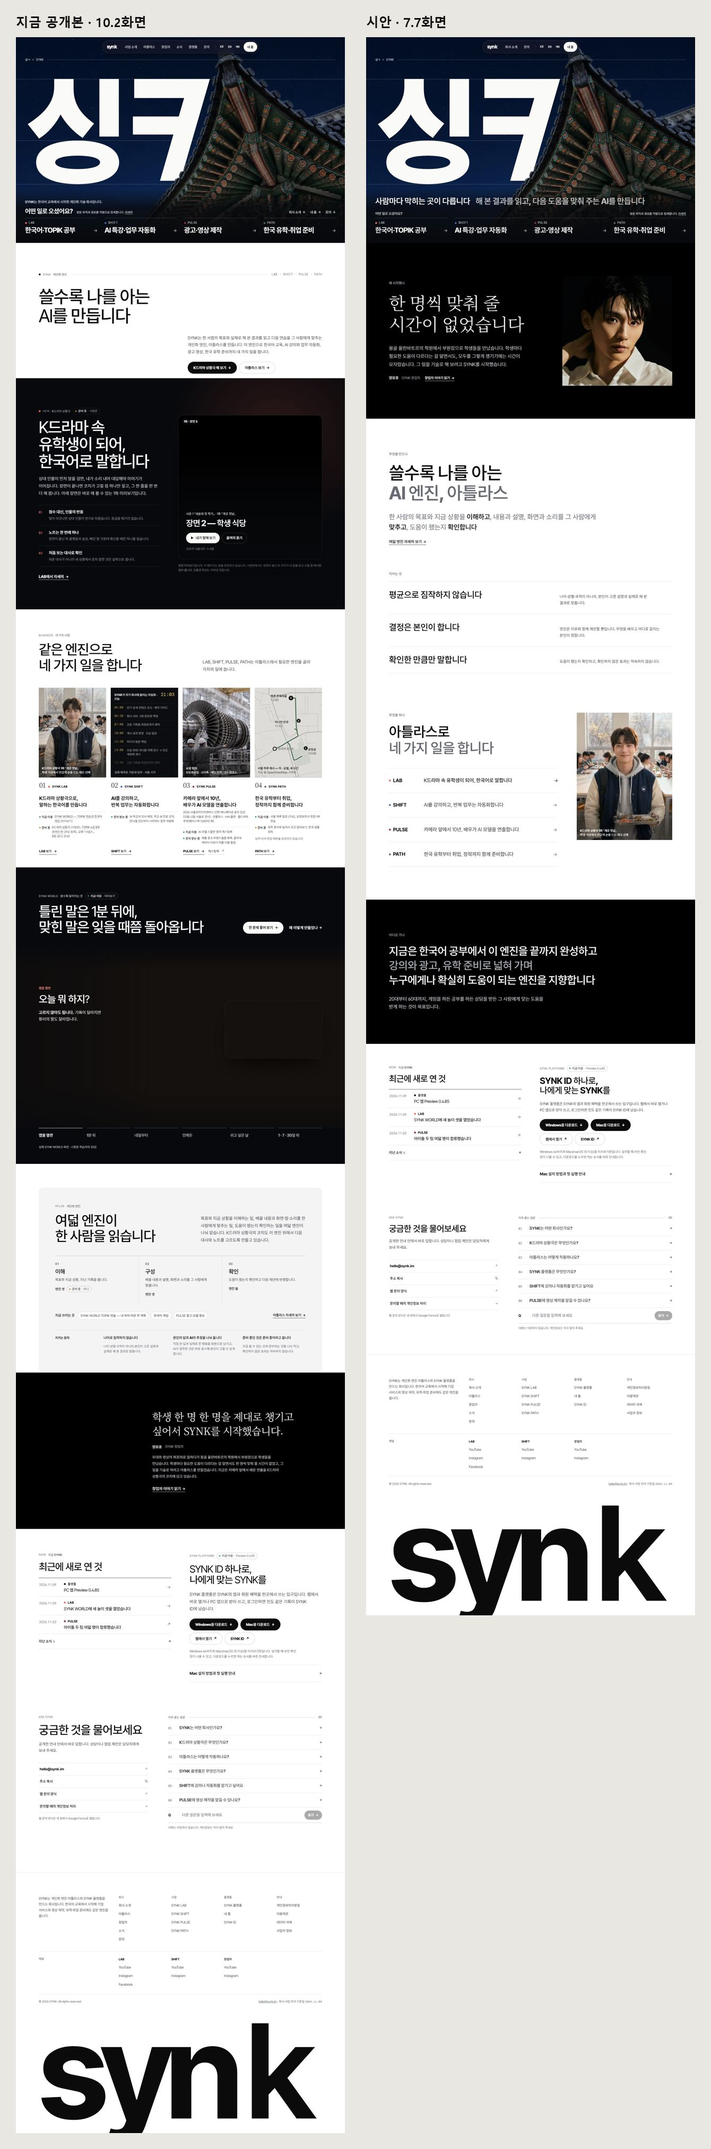
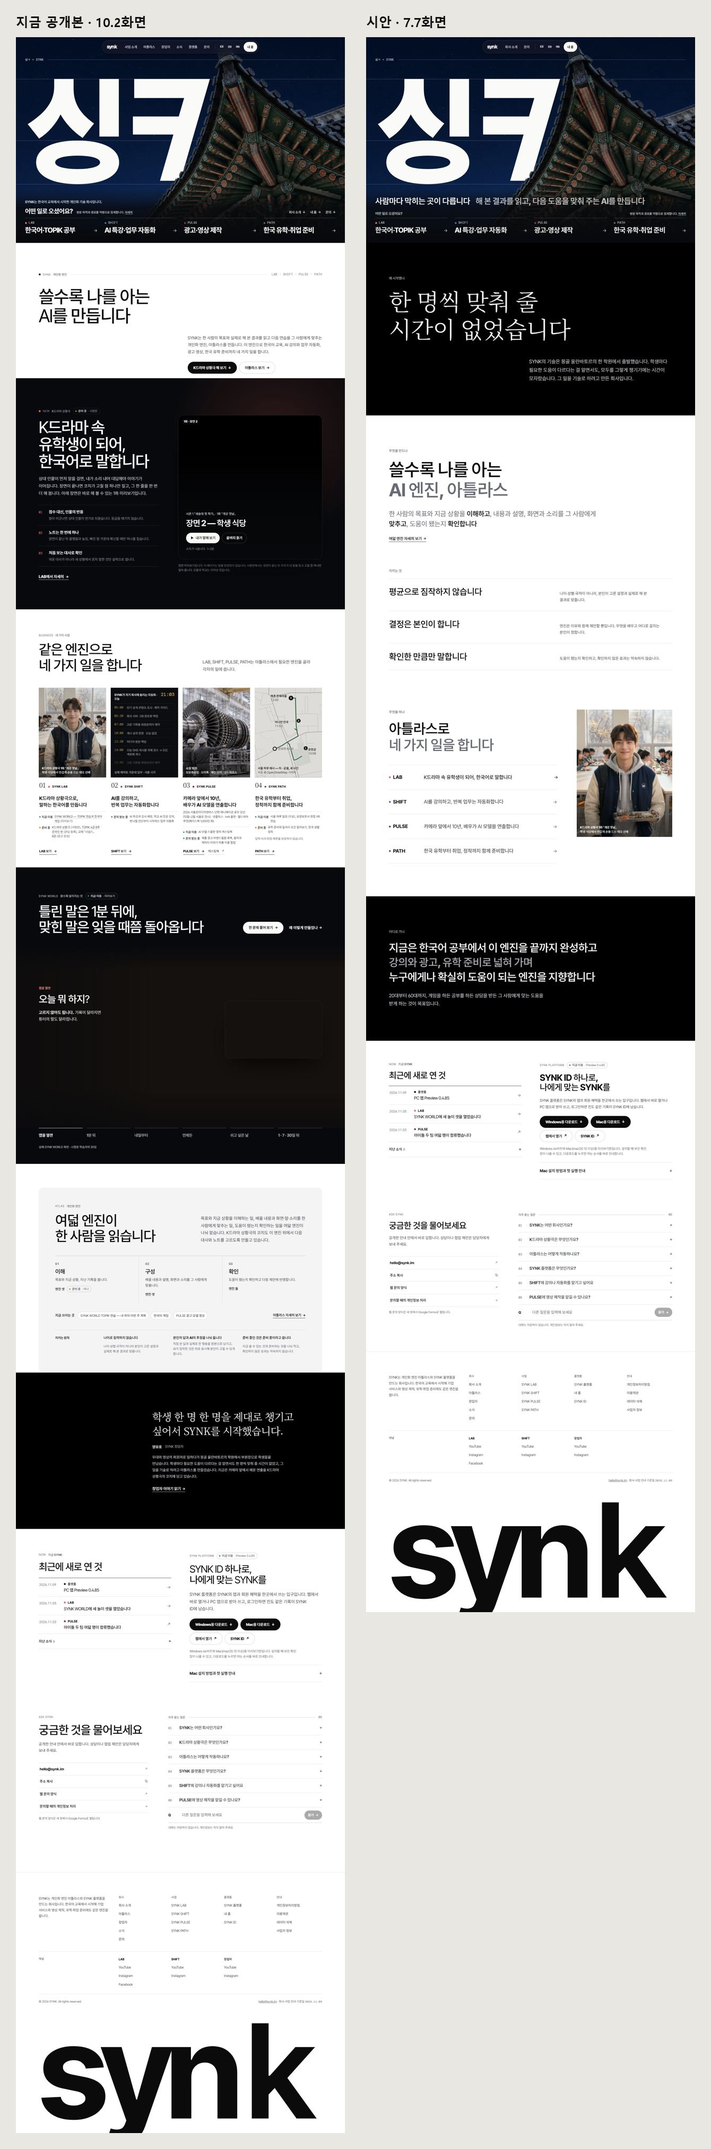
docs(synk.im 홈 시안 · 11-09 유호님): 홈에서 창업자 사진 · 이름을 뺀다 — 왜 시작했는지는 회사 이야기로, 자리별 실측 · 점검표 한 줄
관련 시험 건너뜀: 문서와 시안만 바꿈. 관련 시험 114개 중 예약사본 2개만 묶음 실행에서 깨졌고 그 파일 단독 실행은 통과, 이 변경과 닿는 경로 없음

diff --git a/docs/디자인/synk.im_홈재구성_20261109/시안/home.html b/docs/디자인/synk.im_홈재구성_20261109/시안/home.html
@@ -32,7 +32,7 @@
 <nav class="bar-nav bar-brands" aria-label="사업"><a href="/lab/">LAB</a><a href="/shift/">SHIFT</a><a href="/pulse/">PULSE</a><a href="/path/">PATH</a></nav><span class="bar-sep" aria-hidden="true"></span>
 <div class="bar-nav bar-lang"><a href="/" hreflang="ko" lang="ko" aria-current="true">KR</a><a href="/en/" hreflang="en" lang="en">EN</a><a href="/mn/" hreflang="mn" lang="mn">MN</a></div><a class="bar-cta" href="/account/platform.html#home">내 홈</a>
 <button class="bar-toggle" type="button" aria-expanded="false" aria-controls="bar-panel" data-bar-toggle><span></span><b class="sr-only">메뉴</b></button></div>
-<div class="bar-panel" id="bar-panel" data-bar-panel><div class="panel-group"><span class="panel-label"><span class="ko">회사</span></span><a href="#top">회사 소개<span aria-hidden="true">→</span></a><a href="/atlas/" class="has-sub"><span class="panel-text">아틀라스<small>쓸수록 나에게 맞춰지는 AI 엔진</small></span><span aria-hidden="true">→</span></a><a href="/founder/">창업자<span aria-hidden="true">→</span></a><a href="#now">소식<span aria-hidden="true">→</span></a><a href="#platform" class="has-sub"><span class="panel-text">플랫폼<small>SYNK 앱 모음 · PC 앱 받기</small></span><span aria-hidden="true">→</span></a><a href="#contact">문의<span aria-hidden="true">→</span></a></div><div class="panel-group"><span class="panel-label"><span class="ko">사업</span></span><a href="/lab/" class="has-sub"><span class="panel-text">SYNK LAB<small>한국어·TOPIK 공부</small></span><span aria-hidden="true">→</span></a><a href="/shift/" class="has-sub"><span class="panel-text">SYNK SHIFT<small>AI 특강·업무 자동화</small></span><span aria-hidden="true">→</span></a><a href="/pulse/" class="has-sub"><span class="panel-text">SYNK PULSE<small>광고·영상 제작</small></span><span aria-hidden="true">→</span></a><a href="/path/" class="has-sub"><span class="panel-text">SYNK PATH<small>한국 유학·취업 준비</small></span><span aria-hidden="true">→</span></a></div><div class="panel-row"><a class="" href="/" hreflang="ko" lang="ko" aria-current="true">KR</a><a class="" href="/en/" hreflang="en" lang="en">EN</a><a class="" href="/mn/" hreflang="mn" lang="mn">MN</a></div><div class="panel-row"><a class="dark" href="/account/platform.html#home">내 홈</a></div></div></header>
+<div class="bar-panel" id="bar-panel" data-bar-panel><div class="panel-group"><span class="panel-label"><span class="ko">회사</span></span><a href="#top">회사 소개<span aria-hidden="true">→</span></a><a href="/atlas/" class="has-sub"><span class="panel-text">아틀라스<small>쓸수록 나에게 맞춰지는 AI 엔진</small></span><span aria-hidden="true">→</span></a><a href="#now">소식<span aria-hidden="true">→</span></a><a href="#platform" class="has-sub"><span class="panel-text">플랫폼<small>SYNK 앱 모음 · PC 앱 받기</small></span><span aria-hidden="true">→</span></a><a href="#contact">문의<span aria-hidden="true">→</span></a></div><div class="panel-group"><span class="panel-label"><span class="ko">사업</span></span><a href="/lab/" class="has-sub"><span class="panel-text">SYNK LAB<small>한국어·TOPIK 공부</small></span><span aria-hidden="true">→</span></a><a href="/shift/" class="has-sub"><span class="panel-text">SYNK SHIFT<small>AI 특강·업무 자동화</small></span><span aria-hidden="true">→</span></a><a href="/pulse/" class="has-sub"><span class="panel-text">SYNK PULSE<small>광고·영상 제작</small></span><span aria-hidden="true">→</span></a><a href="/path/" class="has-sub"><span class="panel-text">SYNK PATH<small>한국 유학·취업 준비</small></span><span aria-hidden="true">→</span></a></div><div class="panel-row"><a class="" href="/" hreflang="ko" lang="ko" aria-current="true">KR</a><a class="" href="/en/" hreflang="en" lang="en">EN</a><a class="" href="/mn/" hreflang="mn" lang="mn">MN</a></div><div class="panel-row"><a class="dark" href="/account/platform.html#home">내 홈</a></div></div></header>
 <main id="main">
 <section class="gate" id="gate" aria-label="SYNK 입구">
 <div class="gate-sky" aria-hidden="true"></div>
@@ -45,12 +45,10 @@
 <p class="visit-q" id="visit-q">어떤 일로 오셨어요?</p>
 <ul class="visit-doors"><li><a class="visit-door" href="/lab/"><small><i class="dot dot-lab" aria-hidden="true"></i>LAB</small><strong>한국어·TOPIK 공부</strong><b class="arr" aria-hidden="true">→</b></a></li><li><a class="visit-door" href="/shift/"><small><i class="dot dot-shift" aria-hidden="true"></i>SHIFT</small><strong>AI 특강·업무 자동화</strong><b class="arr" aria-hidden="true">→</b></a></li><li><a class="visit-door" href="/pulse/"><small><i class="dot dot-pulse" aria-hidden="true"></i>PULSE</small><strong>광고·영상 제작</strong><b class="arr" aria-hidden="true">→</b></a></li><li><a class="visit-door" href="/path/"><small><i class="dot dot-path" aria-hidden="true"></i>PATH</small><strong>한국 유학·취업 준비</strong><b class="arr" aria-hidden="true">→</b></a></li></ul>
 <p class="visit-note">방문 목적과 경로를 익명으로 집계합니다. <a href="/privacy/#visitor-stats">자세히</a></p></nav></div>
-</section><section class="v13-why" id="top" aria-labelledby="why-title"><span id="hero-introduction" class="sr-only" aria-hidden="true"></span><span id="founder" class="sr-only" aria-hidden="true"></span><div class="wrap v13-why-grid">
-<div><p class="v13-label reveal">왜 시작했나</p>
+</section><section class="v13-why" id="top" aria-labelledby="why-title"><span id="hero-introduction" class="sr-only" aria-hidden="true"></span><span id="founder" class="sr-only" aria-hidden="true"></span><div class="wrap">
+<p class="v13-label reveal">왜 시작했나</p>
 <h2 class="v13-why-title reveal" id="why-title"><span>한 명씩 맞춰 줄</span> <span>시간이 없었습니다</span></h2>
-<p class="v13-why-story reveal">몽골 울란바토르의 학원에서 부원장으로 학생들을 만났습니다. 학생마다 필요한 도움이 다르다는 걸 알면서도, 모두를 그렇게 챙기기에는 시간이 모자랐습니다. 그 일을 기술로 해 보려고 SYNK를 시작했습니다.</p>
-<p class="v13-sign reveal"><strong>양유호</strong><span>SYNK 창업자</span><a class="link" href="/founder/">창업자 이야기 읽기<span class="arr" aria-hidden="true">→</span></a></p></div>
-<figure class="v13-why-photo reveal"><img src="/assets/v10/r/yuho-founder-20260919-w800.webp" alt="검정 배경 앞의 SYNK 창업자 양유호" width="800" height="800" loading="lazy" decoding="async"></figure>
+<p class="v13-why-story reveal">SYNK의 기술은 몽골 울란바토르의 한 학원에서 출발했습니다. 학생마다 필요한 도움이 다르다는 걸 알면서도, 모두를 그렇게 챙기기에는 시간이 모자랐습니다. 그 일을 기술로 하려고 만든 회사입니다.</p>
 </div></section>
 <section class="v13-what" id="atlas" aria-labelledby="what-title"><div class="wrap">
 <p class="v13-label reveal">무엇을 만드나</p>

diff --git a/docs/디자인/synk.im_홈재구성_20261109/시안/home-v13.css b/docs/디자인/synk.im_홈재구성_20261109/시안/home-v13.css
@@ -22,17 +22,11 @@
 .v13-lead{margin:clamp(22px,2.4vw,34px) 0 0;max-width:33em;font-size:clamp(18px,1.5vw,21px);line-height:1.65;font-weight:450;color:var(--ink-2);text-wrap:pretty}
 .v13-go{margin:clamp(20px,2vw,28px) 0 0}
 
-/* ---------- 왜 시작했나: 사람의 말이라 명조, 검정 ---------- */
+/* ---------- 왜 시작했나: 검정 판에 큰 명조 한 문장. 창업자 사진 · 이름은 넣지 않는다(11-09 유호님) ---------- */
 .v13-why{--ink:#f4f4f5;--ink-2:#c9cbd1;--ink-3:#a2a5ad;--line:rgba(255,255,255,.16);background:#000;color:var(--ink);padding-block:clamp(88px,10vw,148px)}
-.v13-why-grid{display:grid;grid-template-columns:minmax(0,7fr) minmax(0,5fr);gap:clamp(32px,6vw,96px);align-items:center}
-.v13-why-title{margin:0;font-family:'V13 Serif','Serif KR',serif;font-size:clamp(36px,5.2vw,76px);line-height:1.24;font-weight:300;letter-spacing:-.01em}
+.v13-why-title{margin:0;font-family:'V13 Serif','Serif KR',serif;font-size:clamp(40px,7vw,104px);line-height:1.2;font-weight:300;letter-spacing:-.012em}
 .v13-why-title span{display:block}
-.v13-why-story{margin:clamp(28px,3vw,44px) 0 0;max-width:30em;font-size:clamp(18px,1.45vw,21px);line-height:1.7;font-weight:400;color:var(--ink-2);text-wrap:pretty}
-.v13-sign{display:flex;flex-wrap:wrap;align-items:baseline;gap:6px 14px;margin:clamp(20px,2vw,28px) 0 0;font-size:15px;color:var(--ink-3)}
-.v13-sign strong{font-size:16px;font-weight:650;color:var(--ink)}
-.v13-sign .link{margin-left:6px;color:var(--ink);font-size:15px}
-.v13-why-photo{margin:0;aspect-ratio:1;overflow:hidden;background:#000}
-.v13-why-photo img{display:block;width:100%;height:100%;object-fit:cover}
+.v13-why-story{margin:clamp(36px,4.6vw,68px) 0 0 auto;max-width:29em;font-size:clamp(18px,1.5vw,22px);line-height:1.7;font-weight:400;color:var(--ink-2);text-wrap:pretty}
 
 /* ---------- 무엇을 만드나 + 지키는 것: 흰 바탕 ---------- */
 .v13-what{padding-block:clamp(88px,10vw,152px) clamp(64px,7vw,104px)}
@@ -81,7 +75,7 @@
 
 /* ---------- 휴대폰 ---------- */
 @media (max-width:900px){
-  .v13-why-grid{grid-template-columns:minmax(0,1fr);gap:36px}
+  .v13-why-story{margin-left:0}
   .v13-biz-grid{display:block}
   .v13-rows a{grid-template-columns:minmax(0,1fr) auto;gap:6px 16px;padding-block:16px;grid-template-areas:"name arr" "line arr"}
   .v13-name{grid-area:name}

diff --git a/docs/디자인/synk.im_홈재구성_20261109/시안/index.html b/docs/디자인/synk.im_홈재구성_20261109/시안/index.html
@@ -75,7 +75,7 @@ const LINES = [
   ["학생 한 명 한 명을 챙기려다, 쓸수록 나를 아는 AI를 만들게 됐습니다"],
   ["세상을 아는 AI는 많습니다","우리는 쓸수록 나를 아는 AI를 만듭니다"]
 ];
-const NUMS = [["컴퓨터 쪽 길이(화면 수)","10.2","7.7"],["휴대폰 쪽 길이(화면 수)","12.8","9.0"],["글자 수(컴퓨터)","4,661","2,191"],["창업 이유가 나오는 자리(컴퓨터)","6.5화면째","1화면째"],["위 메뉴 항목(스크롤 뒤)","14","10"]];
+const NUMS = [["컴퓨터 쪽 길이(화면 수)","10.2","7.7"],["휴대폰 쪽 길이(화면 수)","12.8","9.0"],["글자 수(컴퓨터)","4,661","2,191"],["창업 이유가 나오는 자리(컴퓨터)","6.5화면째","1화면째"],["위 메뉴 항목(스크롤 뒤)","14","10"],["홈의 창업자 사진","있음","없음"]];
 const fit = () => document.querySelectorAll('.frame iframe').forEach(f => { f.style.transform = `scale(${f.parentElement.clientWidth / +f.dataset.w})`; });
 addEventListener('resize', fit); fit();
 const box = document.getElementById('line-buttons');

diff --git a/docs/마케팅/제작양식/광고영상_슬롭점검표.md b/docs/마케팅/제작양식/광고영상_슬롭점검표.md
@@ -65,6 +65,7 @@
 | 46 | 화면 · 사진 속 글자 — 표지 · 간판 · 책 · 포스터 · 칠판 글을 화면 글꼴로 사진 위에 얹음(합성 티) | 11-09 WORLD 학교 시안 「이런 표지나 책에써져있는 텍스트들이 합성한 느낌이 너무 커. 이런 부분들이 슬롭느낌을 가장 크게 증폭시켜서 우리가 만든 다른 모든게 억울하게 평가절하받는 느낌이야 ㅠㅠ」 · 「새솔 문구도 아예 튀어나와있고말야」 · 「간격이라던지 디테일한 마감이 좀 부족한것같아」 — 펠트 UI 부품 규칙 「글자는 굽지 않는다」를 사진 속 물건까지 넓혀, 학생식당 표지 · 층별 안내 · 칠판 · 대본 · 포스터 · 문구점 간판을 모두 같은 화면 글꼴로 평평하게 얹었고, 간판 글자는 판 밖으로 나갔다. 맹검이 자리 안에 3~6점을 줬는데 「본구현 전에 따로」로 미뤄 보여 드렸다 | 사진 속 물건에 쓰인 글을 하나씩 잘라 본다 — UI와 같은 글꼴인가, 물건의 기울기 · 곡면을 따르나, 둘레와 같은 빛 · 그늘 · 재질 · 초점인가, 물건 밖으로 나가나(글자 네모가 물건 네모 안에 드는지 잰다). 화면 전체 맹검은 이 칸을 뭉뚱그리니 글자 둘레만 잘라 따로 묻는다. 어느 칸이든 맹검이 낮으면 「나중에」로 미루지 않고 고친 뒤 보여 드린다 | 세계 속 글(표지 · 간판 · 포스터 · 책)은 장면과 한 장으로 굽는다 — 글꼴 윤곽으로 조판한 원고를 참고로 넣어 GPT 이미지로([장부 S43](만족사례_장부.md#chumbeongdaeng-tube-logo-20261105)), 낱자까지 확대 대조하고 틀리면 다시 굽는다. 살아 있는 화면 글자는 기능 글(버튼 · 자리 이름 · 안내)만이다. 학생마다 · 날마다 바뀌는 글은 사진 속에 억지로 두지 않고 사람의 말 · 화면 글로 옮긴다 |
 | 47 | 화면 · 안내 · 메뉴 — 번호 · 소제목 · 줄 · 오른쪽 알약의 표 | 11-09 WORLD 학교 안내 「무엇을 하고 싶어요?」 「이 장면은 아예 재구성해보자. 지금 너무 ai슬롭느낌이 심해서 드래그하는방식으로 (우리 pulse 캐스팅북 처럼) 메뉴나 이런걸 우리 npc를 넣던지해서 드래그할떄마다 npc가 짧막하게 어떤기능인지 소개 및 설명해주는 느낌이면 더 친근하고 재미있지않을까 싶어」 | 번호 붙은 묶음 제목 + 가로줄 + 오른쪽 회색 알약으로 이어지는 표 모양인가 · 손으로 만지는 맛이 있나 · 기능을 사람이 말해 주나 · 참고 사이트 장부 1절과 캐스팅북 `#row` 옆에 놓으면 어떤가 | 실물 · 사람을 끌어 넘기는 화면으로 짠다 — 캐스팅북 벽(`docs/마케팅/PULSE_AI모델_캐스팅_20260930/site-src/app.js` `wallMount`)의 손맛, 멈출 때마다 그 사람이 자기 일을 한 줄로 소개. 빨리 찾는 길은 그 뒤에 조용히 둔다 |
 | 48 | 화면 · 영상 · 그림 — 낮은 화소를 크게 띄움 · 화면비가 다른 원본을 잘라 펼침 | 11-09 PULSE 첫 화면 쇼릴 「이런거 보면 화질 너무 꺠져있잖아. 왜 이런거야? 이런거 쓸바에 안쓰는게 나아」 | 유호님 화면(폭 1440 · 1.5배 표시)과 2560에서 실제 화소의 몇 배인가(`node tools/화면배율.mjs <주소>`, 1.5배 넘으면 걸림 — 줄인 그림과 맹검으로는 안 보인다) · 세로 작품의 띠를 잘라 펼쳤나(파일 안의 배율은 도구도 못 본다, 굽는 설정을 읽는다) · 얼굴 컷을 실제 크기로 잘라 봤나 · 파일 크기 한도에 맞춰 화질을 깎았나 | 화면비가 맞는 작품만 꽉 채우고 나머지는 자르지 않고 어두운 방의 스크린으로 놓는다, 원본 크기로 한 번만 압축한다(`진열/굽기.cjs`). 파일 크기 관문이 막으면 관문을 올린다. 흔들린 얼굴을 AI로 키우면 피부가 갈라진다 |
+| 49 | 화면 · 회사 홈 — 창업자 얼굴을 앞세움 | 11-09 synk.im 홈 시안 「홈페이지에 내 얼굴을 너무 부각시키지마. 창업자관련은 최대한 필요한곳에만 넣고 지금 메인에 내 얼굴을 넣을 필요까지는 없다고 생각해」 | 회사 홈 · 사업 소개 구역에 창업자 사진이 보이거나 이름이 서명처럼 붙어, 회사보다 한 사람의 이야기로 읽히는가 | 왜 시작했는지는 회사 이야기로 말하고, 창업자 사진 · 이름은 창업자 쪽과 강사 소개처럼 그 사람을 찾아온 자리에만 |
 
 ## 되풀이 지적 뿌리 — 20묶음(11-08)
 

diff --git a/docs/_ops/결정.md b/docs/_ops/결정.md
@@ -7,6 +7,7 @@
 <!-- 결정표 시작 · tools/결정.js 가 이 구간만 읽고 쓴다 -->
 | 날짜 | 성격 | 결정 | 근거 |
 |---|---|---|---|
+| 2026-11-09 | 확정 | [synk.im 창업자 사진 · 유호님] 회사 홈에는 창업자 얼굴을 넣지 않고, 왜 시작했는지는 회사 이야기로 말한다. 창업자 사진 · 이름은 필요한 곳(창업자 쪽, SHIFT 강사 소개)에만 두고, 홈에는 바닥 링크와 채널 줄만 남긴다. 홈 시안(한 · 영)에 반영했고, 공개본 홈 · 몽골어 홈의 사진은 아직 그대로다. | 유호님 11-09 「홈페이지에 내 얼굴을 너무 부각시키지마 … 지금 메인에 내 얼굴을 넣을 필요까지는 없다고 생각해」 · 자리별 실측 [README](../디자인/synk.im_홈재구성_20261109/README.md) · 슬롭 점검표 한 줄 |
 | 2026-11-09 | 확정 | [synk.im 홈 방향 · 유호님] 홈은 「처음 온 사람이 5초 뒤에 무슨 회사이고 왜 하는지 말할 수 있나」를 기준으로 회사가 무엇을 제공하고 어떤 철학과 개발 방향을 지향하는지 설명하고, 임팩트 있는 어필은 LAB · SHIFT · PULSE · PATH 쪽에서 한다. 이 방향의 시안에서 상황극 띠 · 「쓸수록 달라지는 것」 · 여덟 엔진 설명은 홈에서 빠지고 각 사업 · 아틀라스 쪽에 남는다(같은 날 앞 행의 홈 구역을 바꾸는 안). 공개는 시안을 고르신 뒤. | 유호님 11-09 「사람들이 너무 복잡하다고 많이 해서」 · 「이런걸 보여주는 프론트면 가장 좋을것같다」 · 실측 공개본 10.2화면 · 4,661자, 창업 이유 6.5화면째 → 시안 7.7화면 · 2,191자 · 1화면째 · [시안](../디자인/synk.im_홈재구성_20261109/README.md) · Fable P1 3 · P2 7 반영 |
 | 2026-11-09 | 확정 | [SNS 두 브랜드 · 슬롯 11-10~14 · 미흡하면 다시 · 유호님] 이 칸의 synkbrief · yuhobuilds 편은 미흡한 곳이 하나라도 남으면 내지 않고 다시 만든다 — 관문 시험의 「다시 시험 없음 · 한 번 더 본 뒤 그대로 낸다」와 빈 날 없음의 「가장 나은 판」보다 앞선다. 칸 마감까지 안 되면 그 칸은 비운다. 최종본은 컷 전수 검수 뒤 앱으로 보낸다. 미흡 기준은 제작 절차에 적었다. 관문 시험 판정의 비용 비교는 이 칸을 빼고 본다. | 유호님 11-09 「웅 전부 제대로 되는지 체크해서 완성되면 보내줘. 하나라도 미흡하면 계속 다시 만들어」. [제작 절차](../마케팅/기획장부/제작절차.md#new-direction-20261109) |
 | 2026-11-09 | 확정 | [PULSE 의뢰서 예시 영상 · 장면 그림 화질 · Claude 판단(유호님 「둘 다 바꿔」와 같은 짜임 — 슬롭 점검표 규칙)] 의뢰서 「무엇으로 오래 남을까요?」 예시 영상 둘을 film-dodam 1280×720 · film-gift 720×1280으로, 장면 그림 sheet-gift 12장을 720×1280으로 다시 뽑았다(같은 구간 · 같은 장). 회사 이미지 판으로 나간다(어느 판인지는 순서 문서 58 절이 정본). 첫 화면 5쪽 · 의뢰서 그림 shard(1080×864)는 15초 영상의 폭 1080이 한계라 다시 뽑아도 같아, 새 그림이 있어야 나아진다 — 그대로 두고 후속으로 적는다. 화면 배율은 `tools/화면배율.mjs`로 잰다(유호님 화면 폭 1440 · 1.5배 기준, 1.5배 넘으면 걸림). | 화면마다 재 보니 유호님 화면에서 film-dodam 1.83배 · film-gift 1.75배 · sheet-gift 1.91배 · shard 2배로 늘어나 있었다. 눈 검수 · 맹검은 줄인 그림으로 보여 못 잡았다. 검수 `pulse-app-stills-20261109c-screen` 아르곤 0 · [슬롭 점검표 48](../마케팅/제작양식/광고영상_슬롭점검표.md) |

diff --git a/docs/디자인/synk.im_홈재구성_20261109/README.md b/docs/디자인/synk.im_홈재구성_20261109/README.md
@@ -17,7 +17,7 @@
 | 차례 | 구역 | 말하는 것 |
 |---|---|---|
 | 1 | 입구 | 처마 · 싱ㅋ 그대로. 회사 한 줄을 작은 설명에서 쪽 제목으로 키우고, 질문은 작은 안내로, 위 메뉴와 같은 작은 링크 셋은 뺐다 |
-| 2 | 왜 시작했나 | 「한 명씩 맞춰 줄 시간이 없었습니다」 + 몽골 학원 이야기(사람의 말이라 명조) |
+| 2 | 왜 시작했나 | 「한 명씩 맞춰 줄 시간이 없었습니다」 + 몽골 학원 이야기(큰 명조 한 문장). 창업자 사진 · 이름은 넣지 않는다 |
 | 3 | 무엇을 만드나 · 지키는 것 | 쓸수록 나를 아는 AI 엔진, 아틀라스 — 이해하고 · 맞추고 · 확인합니다 / 평균으로 짐작하지 않습니다 · 결정은 본인이 합니다 · 확인한 만큼만 말합니다 |
 | 4 | 무엇을 하나 | 네 사업 한 줄씩 + 무대 하나(손을 올리면 바뀐다, 저절로 돌지 않는다). 휴대폰은 줄 아래 옆으로 넘기는 무대 |
 | 5 | 어디로 가나 | 지금 → 넓혀 가는 곳 → 지향하는 곳 세 줄 |
@@ -25,7 +25,21 @@
 
 홈에서 빠지는 것은 사라지지 않는다 — 상황극은 `/lab/`, 「쓸수록 달라지는 것」은 `/atlas/`와 `/lab/`, 여덟 엔진은 `/atlas/`, 예약표는 `/shift/`에 이미 있다. 플랫폼 받기 · 소식은 홈에만 있어 남겼다(`/platform/`은 없다).
 
-글은 지어내지 않았다: 왜 = `/founder/` · 공개 홈 창업자 띠, 세 동사 = 공개 아틀라스 구역 · `/atlas/`, 지키는 것 = [철학](../../SYNK_철학.md) 1 · 2절, 어디로 가나 = [비전](../../비전_정본.md) · [제품방향](../../제품방향.md) 적용 범위, 네 사업 줄 = 공개 각 쪽 제목.
+글은 지어내지 않았다: 왜 = `/founder/`(「SYNK의 기술은 여기서 출발했습니다」) · 공개 홈 창업자 띠, 세 동사 = 공개 아틀라스 구역 · `/atlas/`, 지키는 것 = [철학](../../SYNK_철학.md) 1 · 2절, 어디로 가나 = [비전](../../비전_정본.md) · [제품방향](../../제품방향.md) 적용 범위, 네 사업 줄 = 공개 각 쪽 제목.
+
+## 창업자 사진 · 이름의 자리(11-09 유호님)
+
+「홈페이지에 내 얼굴을 너무 부각시키지마. 창업자관련은 최대한 필요한곳에만 넣고 지금 메인에 내 얼굴을 넣을 필요까지는 없다고 생각해」 — 시안에서 사진과 이름 줄, 「창업자 이야기 읽기」 링크, 위 · 휴대폰 메뉴의 창업자 줄을 뺐다. 바닥 링크 「창업자」와 채널 줄만 남는다.
+
+11-09 공개 쪽 실측(1440×900 · 창업자 사진 파일 기준):
+
+| 쪽 | 자리 | 크기 | 판단 |
+|---|---|---|---|
+| 홈 `/` · `/en/` | 창업자 띠, 6.6~6.8화면째 | 425×425 | 뺀다 — 공개본은 아직 그대로, 이 시안을 공개할 때 빠진다 |
+| 몽골어 홈 `/mn/` | 창업자 띠, 3.4화면째 | 467×467 | 뺀다 — 홈 시안 범위가 한 · 영이라 따로 고친다 |
+| 창업자 쪽 `/founder/` · `/en/founder/` | 첫 화면 | 397×397 | 둔다 — 그 사람을 찾아온 자리 |
+| SHIFT `/shift/` · `/en/shift/` | 강사 칸, 약 5화면째 | 168×168 | 둔다 — 강의를 맡기는 손님이 볼 강사 소개 |
+| PULSE 모델 명단 | AI 모델 스물한 명 가운데 한 칸 | 187×250 | 둔다 — 창업자 소개가 아니라 모델 |
 
 ## 실측(같은 도구 · 2026-11-09 · 쪽을 연 뒤 1.5초 · 움직임 줄이기)
 
